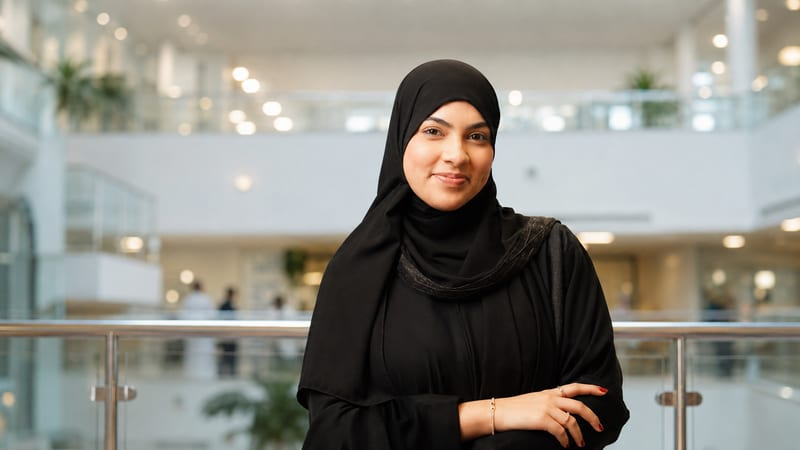
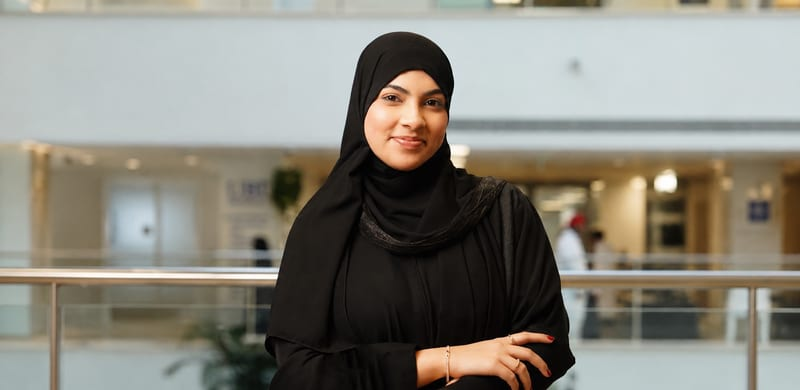
Swap in the wider hero photograph
The new frame is 1796x876 (2.05:1) rather than 1672x941 (1.78:1), which suits
a full-height hero much better: on a 1899x869 window it now falls 117px short
of the viewport width instead of 355px, so the dissolved side edges barely
register. It still covers outright at 1440x900, 1920x1080 and on phones.

- Focal point moves to 51% 34%, from where the face sits in this crop.
- The image script now always adds the original's own width as the largest
  step, so swapping in a differently sized photo keeps full resolution with
  no config change. It also prints the widths array to mirror into site.ts.
  The fixed 1672 rung is gone; it sat 124px from the new native width and
  earned nothing.
- Top scrim nudged from 0.85 to 0.88: this frame has a brighter ceiling and
  the navigation had dropped to 4.65:1, which passes but with little room.

Optimised set is 226 KB total; the hero serves a 39 KB WebP on desktop and
14 KB on a phone, from a 1.5 MB original.

Contrast measured on the new frame: nav 5.1:1, positioning 4.0-16:1, name
4.5-8.1:1, bottom rail 4.8-5.7:1 across 1899x869, 1440x900 and 375x812.

Claude-Session: https://claude.ai/code/session_01GnrW7EvyFLiE4JkSmEmjT6

diff --git a/src/data/site.ts b/src/data/site.ts
@@ -36,10 +36,10 @@ export const site = {
     aboutSrc: '/assets/portrait/maryam-about.jpg',
     /* Widths that exist on disk, smallest first. The browser picks one via
        srcset; `src` above is the fallback. Must match scripts/optimize-images.mjs. */
-    widths: [800, 1200, 1672],
+    widths: [800, 1200, 1796],
     /* Where the face sits in the frame, as x% y%. The hero crops hard on
        tall viewports and this is what keeps her in shot. */
-    focus: '56% 40%',
+    focus: '51% 34%',
   },
 
   /* --- Resume ----------------------------------------------------------

diff --git a/src/components/Hero/Hero.css b/src/components/Hero/Hero.css
@@ -47,9 +47,9 @@
   height: 22%;
   background: linear-gradient(
     to bottom,
-    rgba(24, 26, 29, 0.85) 0%,
-    rgba(24, 26, 29, 0.7) 32%,
-    rgba(24, 26, 29, 0.24) 68%,
+    rgba(24, 26, 29, 0.88) 0%,
+    rgba(24, 26, 29, 0.74) 32%,
+    rgba(24, 26, 29, 0.26) 68%,
     transparent 100%
   );
 }
